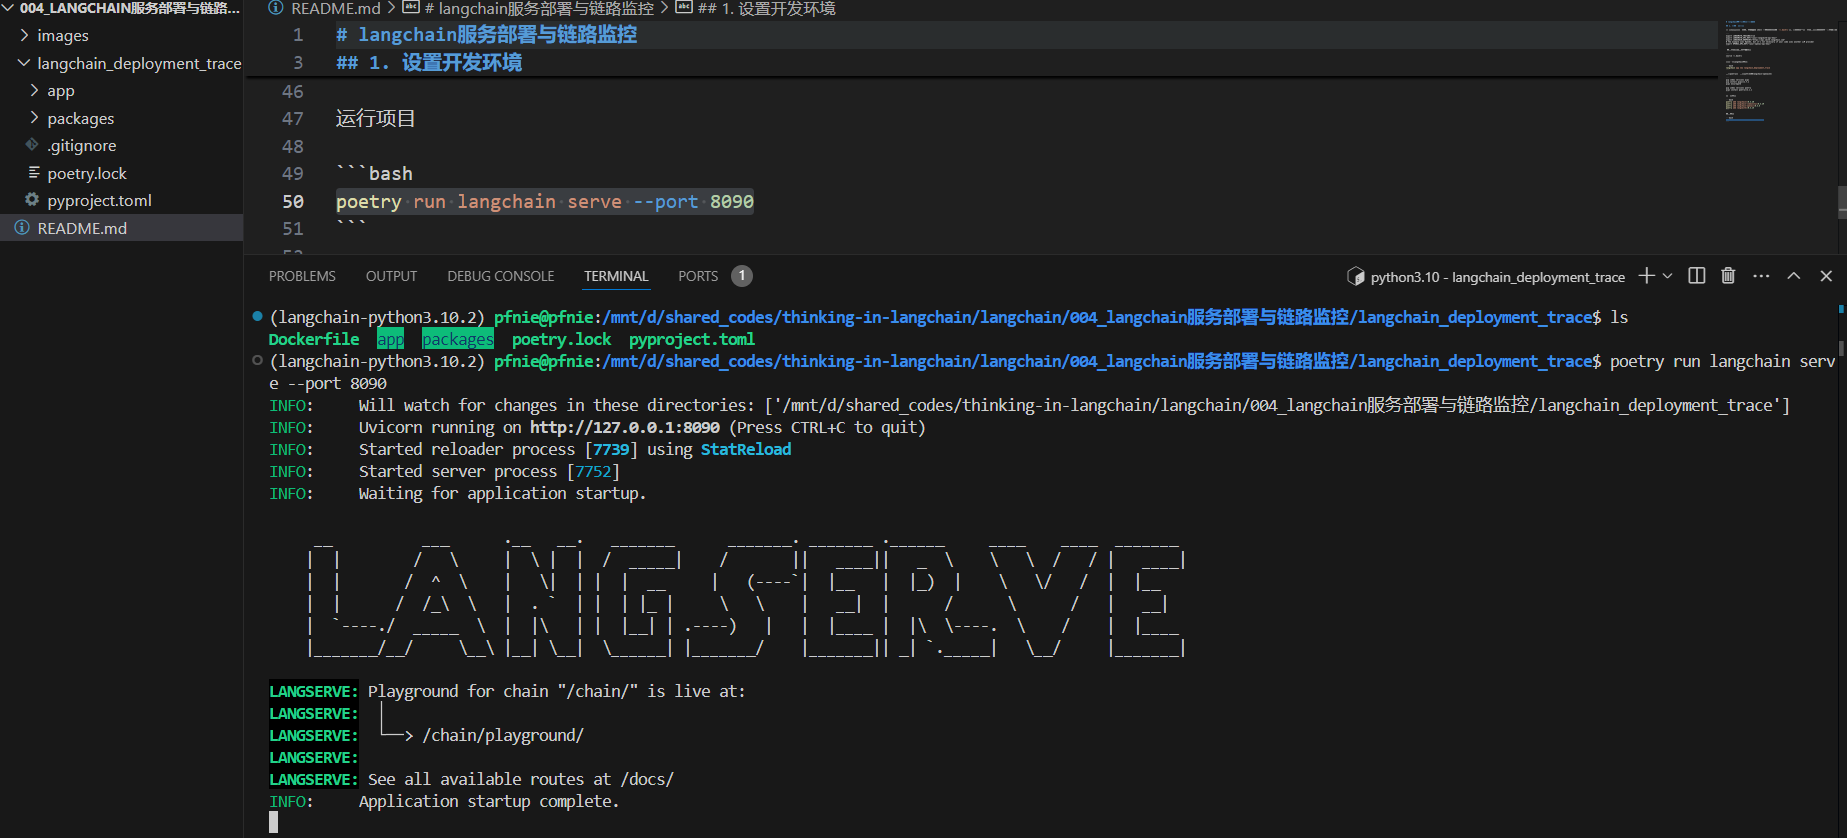
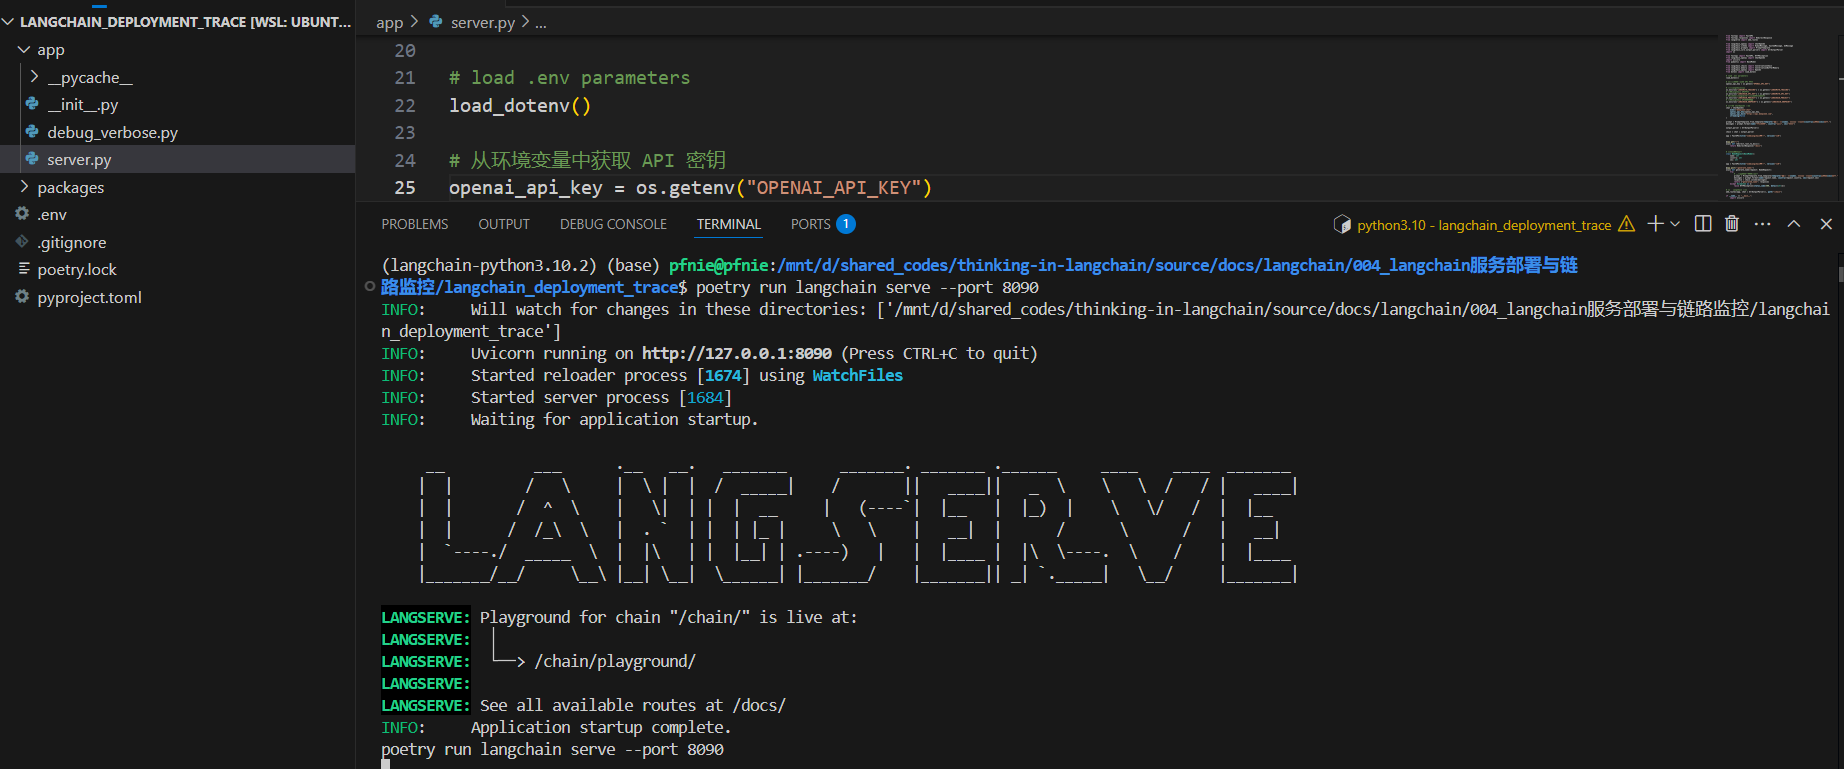
README.md

diff --git a/source/docs/langchain/004_langchain服务部署与链路监控/README.md b/source/docs/langchain/004_langchain服务部署与链路监控/README.md
@@ -40,6 +40,8 @@ LANGCHAIN_ENDPOINT="https://api.smith.langchain.com"
 OPENAI_API_KEY="<your-openai-api-key>"
 ```
 
+![](images/2025-03-25_172913.png)
+
 ### 1.2 LangServe服务部署
 
 ```bash
@@ -61,16 +63,10 @@ poetry run langchain serve --port 8090
 
 ### 1.4 Verbose & Debug 详细日志打印
 
-在 Linux上：打开终端, 编辑你的 shell 配置文件（例如 `~/.bashrc`）, 在文件末尾添加以下行：保存文件并退出编辑器。
+ 在.env文件中加入如下内容:
 
 ```bash
-export TAVILY_API_KEY="<your-tavily-api-key>"
-```
-
-运行以下命令使更改生效：
-
-```bash
-source ~/.bashrc
+TAVILY_API_KEY="<your-tavily-api-key>"
 ```
 
 参考debug_verbose的代码。
